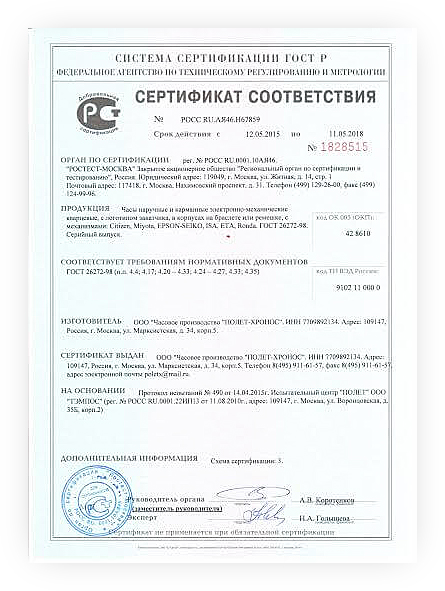
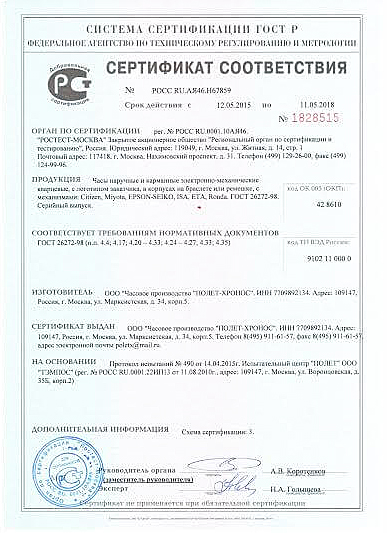
my

Changed region(s): [[0.031, 0.03, 0.9612, 0.9906]]

diff --git a/css/style3.css b/css/style3.css
@@ -1,2 +1,2 @@
-.section_padding-dc{padding-top:47px}.dc-image{display:block}.title-with-text__title_view{color:#04545e;font-size:24px;font-family:"RobotoBold";display:block;margin-bottom:40px}.title-with-tex__p_view{font-family:"RobotoRegular";font-size:24px;color:#3f3f3f}.title-with-text__view{width:30%;float:right}.title-with-text__view2{width:30%;float:left}.image-view{width:50%;float:left;z-index:1;position:relative;top:-100px;left:300px}.image-view2{width:50%;float:right;z-index:1;position:relative}.blue-view{background:#0eb0c5;width:550px;height:200px;z-index:0;position:relative;top:190px}.blue2-view{position:absolute;background-image:url("../img/strip.png")}@media only screen and (min-width: 992px){.section_padding-dc{padding-top:47px}}
+.section_padding-dc{padding-top:47px}.dc-image{display:block}.title-with-text__title_view{color:#04545e;font-size:24px;font-family:"RobotoBold";display:block;margin-bottom:40px}.title-with-tex__p_view{font-family:"RobotoRegular";font-size:24px;color:#3f3f3f}.title-with-text__view{width:30%;float:right}.title-with-text__view2{width:30%;float:left}.image-view{width:50%;float:left;z-index:1;position:relative;top:-100px;left:300px}.image-view2{width:50%;float:right;z-index:1;position:relative}.blue-view{background:#0eb0c5;width:550px;height:200px;z-index:0;position:relative;top:190px}.blue2-view{position:absolute;background-image:url("../img/strip.png")}.image-view3{z-index:20;position:relative}.image-view4{z-index:10;position:relative;top:-400px;left:700px}@media only screen and (min-width: 992px){.section_padding-dc{padding-top:47px}}
 /*# sourceMappingURL=style3.css.map */

diff --git a/css/style3.scss b/css/style3.scss
@@ -62,6 +62,19 @@
 	background-image: url("../img/strip.png");
 }
 
+
+.image-view3 {
+    z-index: 20;
+    position: relative;
+}
+
+.image-view4 {
+    z-index: 10;
+    position: relative;
+    top: -400px;
+    left: 700px;	
+}
+
 @media only screen and (min-width : 320px) {
 }
 

diff --git a/includes/certificate.php b/includes/certificate.php
@@ -1,3 +1,15 @@
 <section class="section section_padding section_padding-dc">
+
 	<center><h2>ВСЯ	ПРОДУКЦИЯ СЕРТИФИЦИРОВАНА</h2></center>
+   
+    
+	<div class="image">	    
+    	<center>
+	    	<img class="image-view3" src="img/dc-certificate.jpg">
+		</center>
+
+		<img class="image-view4" src="img/dc-clocks.jpg">
+	</div>
+	
+
 </section>
